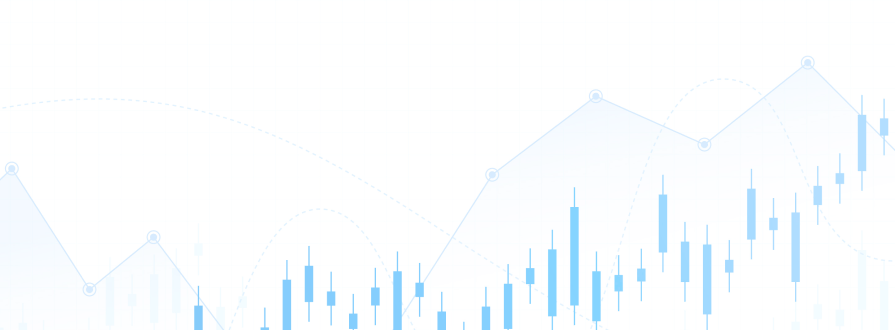
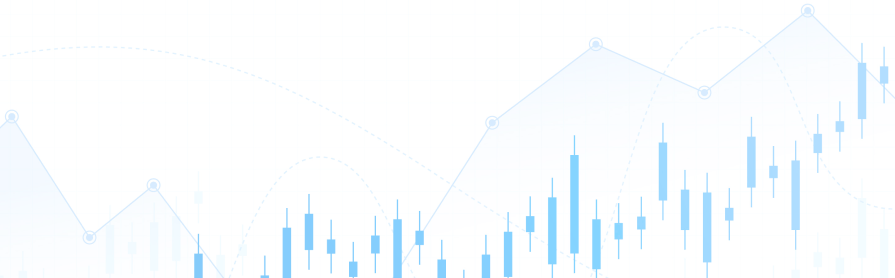
.

diff --git a/src/pages/Home.jsx b/src/pages/Home.jsx
@@ -140,7 +140,7 @@ function HomePage() {
           <img
             src="/img2.png"
             alt="Graph background"
-            className="h-full w-1/2 object-cover opacity-100"
+            className="h-full w-full object-cover opacity-100"
           />
           {/* Optional Law Illustration on Right */}
           <img
@@ -151,7 +151,7 @@ function HomePage() {
         </div>
 
         {/* Animation */}
-        <div className="absolute top-4 right-3 w-full h-full flex justify-end items-center pointer-events-none -z-10 pt-10 pb-10">
+        <div className="bg-white/50 absolute top-2 right-3 w-full h-full flex justify-end items-center pointer-events-none -z-10 pt-10 pb-10">
           <DotLottieReact
             src="https://lottie.host/84f610ef-3fce-454d-9ea0-eacda50d4f65/fwh7Rj4l2L.lottie"
             loop
